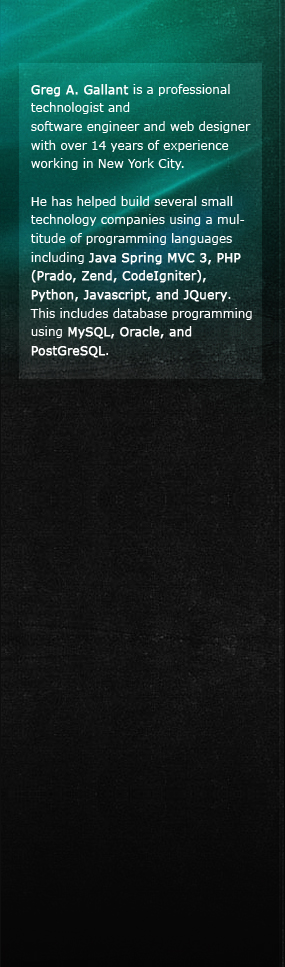
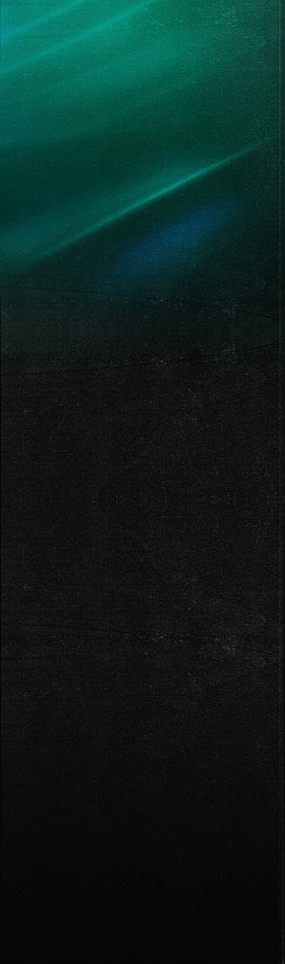
Design and css styles implemented

Changed region(s): [[0.0561, 0.0622, 0.9263, 0.3734]]

diff --git a/public/css/gallantone.css b/public/css/gallantone.css
@@ -66,7 +66,14 @@ code {
     height:100%;
     float:right;
     display:inline-block;
+    background-image:url('../images/rightArticleBarBackground.jpg');
+    z-index:4;
+}
+
+.rightArticleBarBackground {
+    height:964px;
     background-image:url('../images/rightArticleBar.jpg');
+    z-index:5;
 }
 
 .centerContent {
@@ -153,10 +160,9 @@ p.footer{
 
 .portScreen
 {
-    width:731px;
-    height:350px;
-    border:1px solid #999999;
-    background-image:url('../images/plateBackground.jpg');
+    width:732px;
+    height:600px;
+    background-image:url('../images/portScreen.jpg');
 }
 
 .preLoader
@@ -170,7 +176,48 @@ p.footer{
 
 .portScreenContent
 {
-    width:300px;
     top:25px;
     display:inline-block;
+    color:#333333;
+    padding:20px 20px 20px 20px;
+}
+
+.button {
+    display: inline-block;
+    outline: none;
+    cursor: pointer;
+    text-align: center;
+    text-decoration: none;
+    font: 12px/100% Arial, Helvetica, sans-serif;
+    padding: .5em 2em .55em;
+    text-shadow: 0 1px 1px rgba(0,0,0,.3);
+    -webkit-border-radius: .5em;
+    -moz-border-radius: .5em;
+    border-radius: .5em;
+    -webkit-box-shadow: 0 1px 2px rgba(0,0,0,.2);
+    -moz-box-shadow: 0 1px 2px rgba(0,0,0,.2);
+    box-shadow: 0 1px 2px rgba(0,0,0,.2);
+
+}
+
+
+.orange {
+    color: #fef4e9;
+    border: 1px inset #0a9c3c;
+    background: #077864;
+    background: -webkit-gradient(linear, left top, left bottom, from(#0a751a), to(#047a20));
+    background: -moz-linear-gradient(top,  #2a751a,  #047a20);
+    filter:  progid:DXImageTransform.Microsoft.gradient(startColorstr='#3a751a', endColorstr='#047a20');
+}
+.orange:hover {
+    background: #44dc20;
+    background: -webkit-gradient(linear, left top, left bottom, from(#88ae11), to(#60a015));
+    background: -moz-linear-gradient(top,  #88ae11,  #60a015);
+    filter:  progid:DXImageTransform.Microsoft.gradient(startColorstr='#88ae11', endColorstr='#60a015');
+}
+.orange:active {
+    color: #dcf3a5;
+    background: -webkit-gradient(linear, left top, left bottom, from(#74da20), to(#aad51a));
+    background: -moz-linear-gradient(top,  #7fda20,  #aad51a);
+    filter:  progid:DXImageTransform.Microsoft.gradient(startColorstr='#74da20', endColorstr='#aad51a');
 }

diff --git a/public/js/goport.js b/public/js/goport.js
@@ -36,14 +36,18 @@ $(document).ready(function() {
             'transitionOut' : 'none',
             'openEffect' : 'fade',
             'openSpeed' : 500,
-            'width'     : '800px',
-            'height'        : '600px',
-            'maxWidth'     : '800px',
-            'maxHeight'        : '600px',
+            'width'     : 800,
+            'height'        : 600,
+            'maxWidth'     : 800,
+            'maxHeight'        : 600,
+            'minWidth' : 800,
+            'minHeight' : 600,
             'autoWidth'     : false,
             'autoHeight'        : false,
             'autoResize' : false,
-            'showCloseButton'   : true,
+            'autoScale' : false,
+            'showCloseButton'   : false,
+            'scrolling' : false,
             'type'                         :'iframe'
         });
 

diff --git a/public/css/gallantlight.css b/public/css/gallantlight.css
@@ -1,5 +1,5 @@
 body {
-    background-image:url('../images/plateBackground.jpg');
+    background-image:url('../images/goFancyFrame.jpg');
     margin: 0px 0px 0px 0px;
     font: 13px/20px normal Helvetica, Arial, sans-serif;
     color:#f0f0f0;
